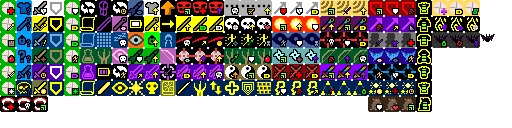
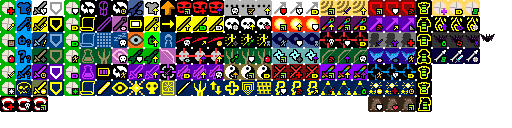
绘制天赋图标与职业图标

Changed region(s): [[0.8438, 0.375, 0.9375, 0.5]]

diff --git a/core/src/main/java/com/shatteredpixel/shatteredpixeldungeon/actors/hero/Talent.java b/core/src/main/java/com/shatteredpixel/shatteredpixeldungeon/actors/hero/Talent.java
@@ -168,7 +168,7 @@ public enum Talent {
 	//Warden T3
 	DURABLE_TIPS(110, 3), BARKSKIN(111, 3), BERRY_HARVEST(112, 3),
 	//BOWBLADE T3
-	FLETCH_TECH(122, 3), MELEE_BACKUP(123, 3), FLETCH_RECIPE(123, 3),
+	FLETCH_TECH(123, 3), MELEE_BACKUP(124, 3), FLETCH_RECIPE(125, 3),
 	//Spectral Blades T4
 	FAN_OF_BLADES(113, 4), PROJECTING_BLADES(114, 4), SPIRIT_BLADES(115, 4),
 	//Natures Power T4

diff --git a/core/src/main/java/com/shatteredpixel/shatteredpixeldungeon/ui/HeroIcon.java b/core/src/main/java/com/shatteredpixel/shatteredpixeldungeon/ui/HeroIcon.java
@@ -118,6 +118,7 @@ public class HeroIcon extends Image {
 	public static final int MONK_ABILITIES  = 110;
 	public static final int MAGICIAN_ABILITIES = 111;
 	public static final int NIGHTWING		= 112;
+	public static final int ARROW          	= 113;
 
 	public HeroIcon(HeroSubClass subCls){
 		super( Assets.Interfaces.HERO_ICONS );
